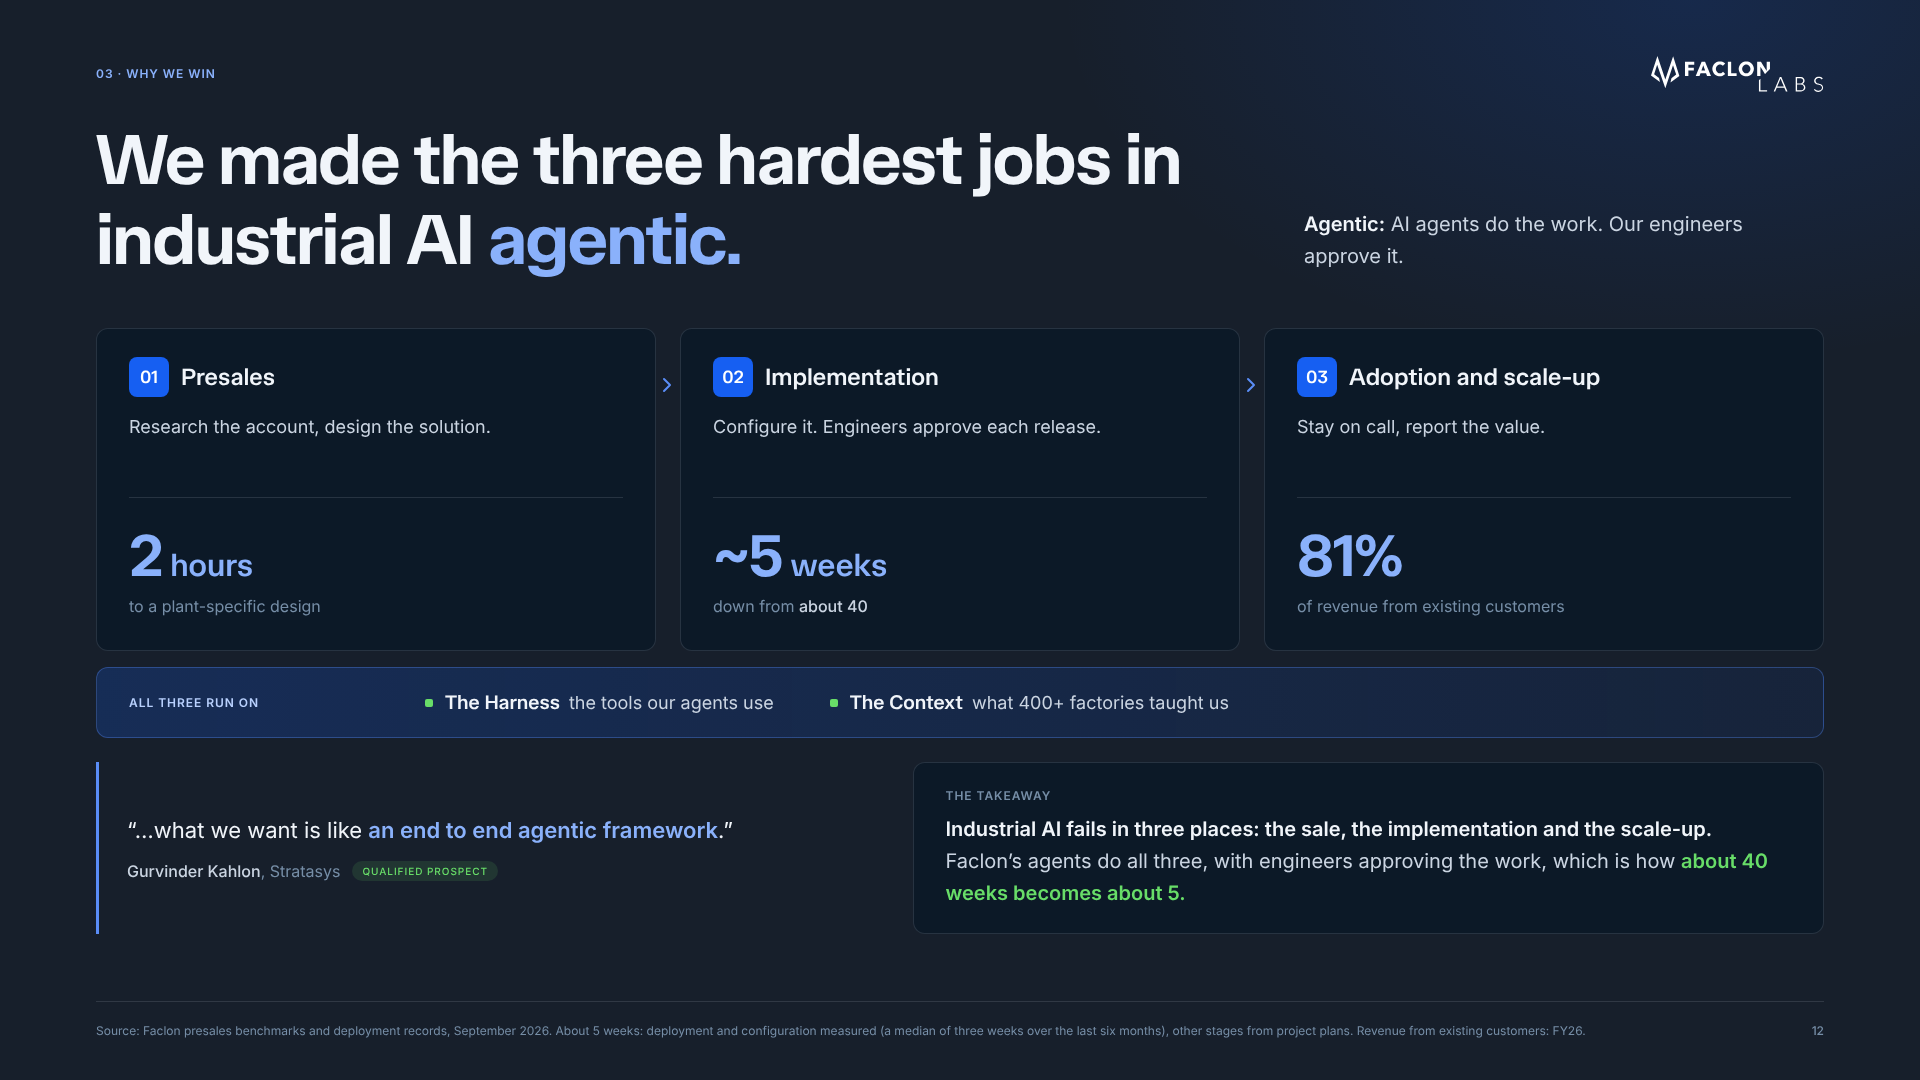
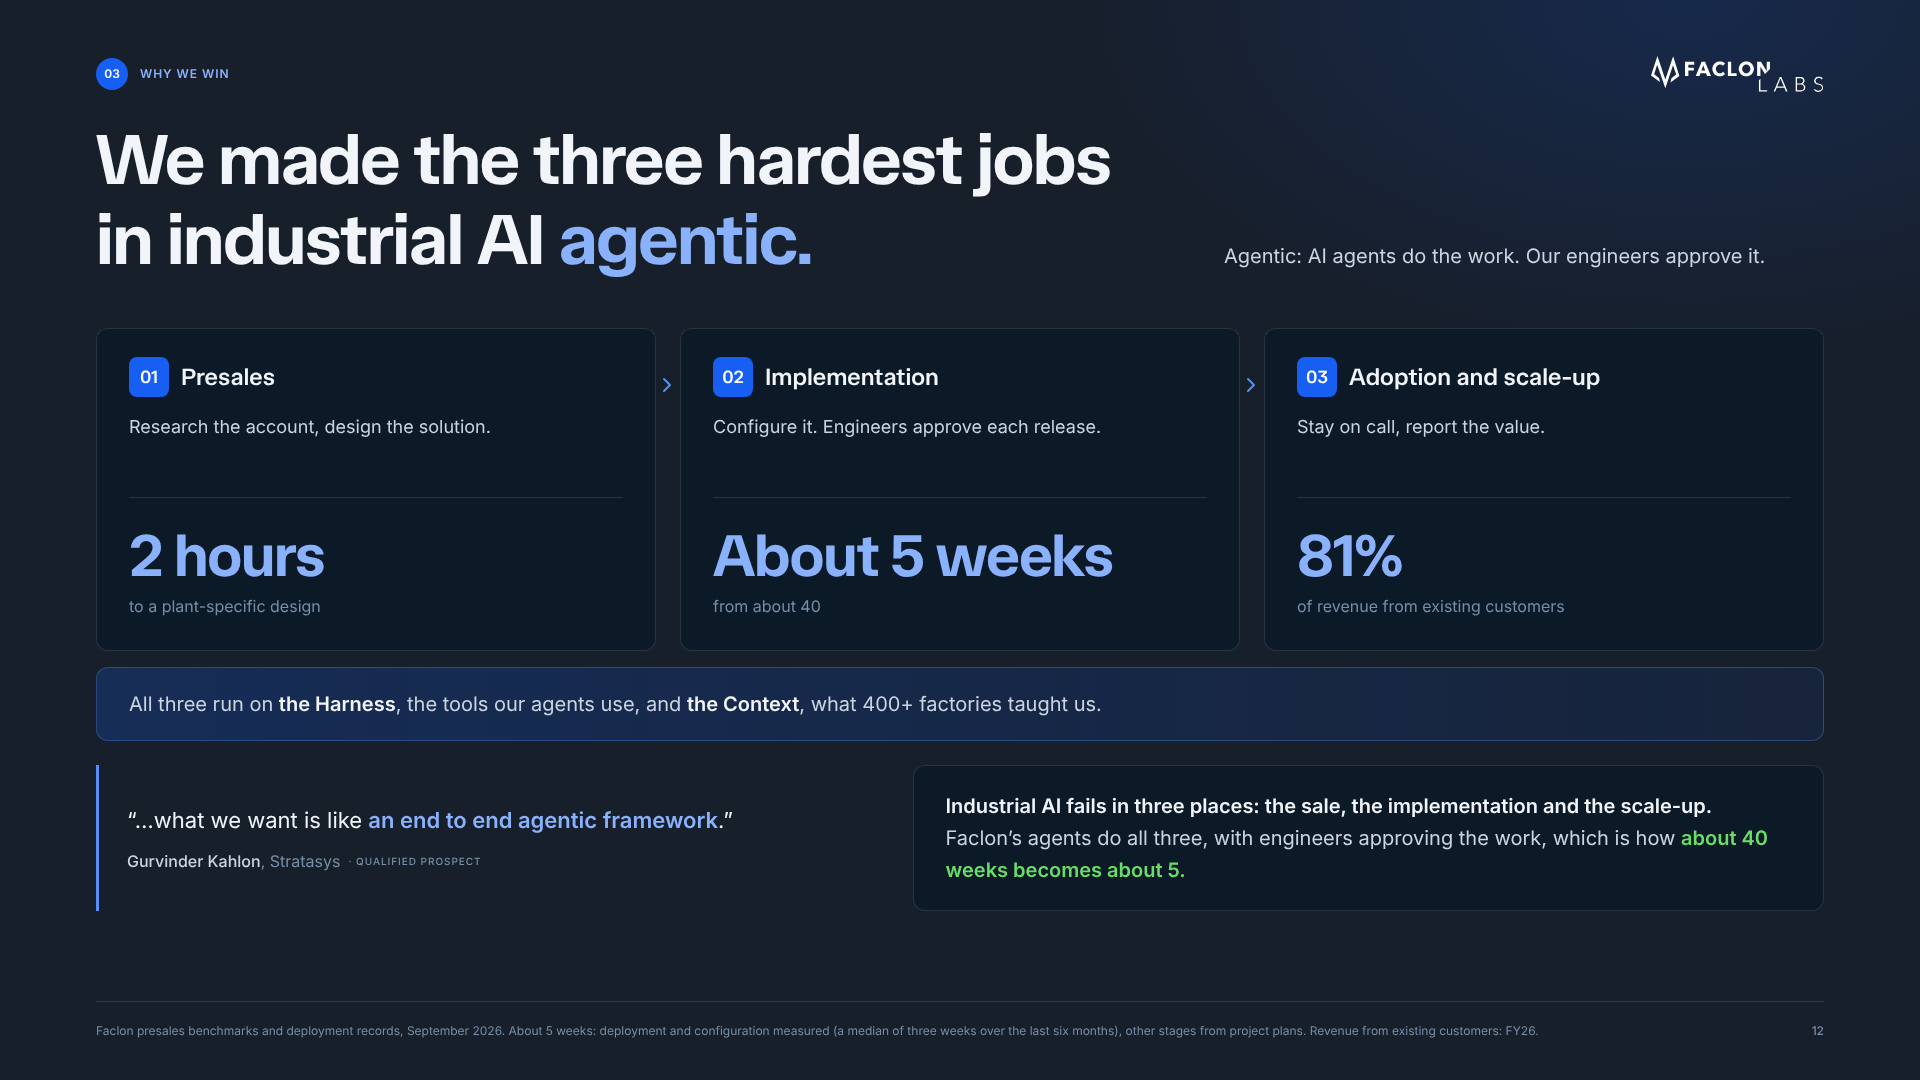
Restore original slide copy word for word in Why We Win redesign
Claude-Session: https://claude.ai/code/session_014BZibz62qyEHTMqVoptstq

diff --git a/faclon-why-we-win/why-we-win-slide.html b/faclon-why-we-win/why-we-win-slide.html
@@ -44,10 +44,12 @@
     font-size:12px;line-height:18px;font-weight:600;letter-spacing:.96px;
     text-transform:uppercase;color:var(--brand-300);
   }
+.eyebrow{display:flex;align-items:center;gap:12px;}
+  .eyebrow .sec{width:32px;height:32px;border-radius:999px;background:var(--brand-500);color:#fff;display:grid;place-items:center;letter-spacing:0;}
   .logo svg{height:36px;width:auto;display:block;}
 
   /* ---------- Headline ---------- */
-  .head{margin-top:28px;display:grid;grid-template-columns:1fr 520px;gap:48px;align-items:end;}
+  .head{margin-top:28px;display:grid;grid-template-columns:1fr 600px;gap:48px;align-items:end;}
   h1{
     font-family:var(--heading);font-weight:700;font-size:72px;line-height:80px;
     letter-spacing:-.02em;color:var(--text-heading-dark);margin:0;
@@ -82,10 +84,12 @@
 
   /* ---------- Foundation layer ---------- */
   .foundation{
-    margin-top:16px;display:grid;grid-template-columns:240px auto 1fr;gap:56px;align-items:center;
+    margin-top:16px;
     background:linear-gradient(90deg, rgba(22,95,242,.22), rgba(22,95,242,.08));
     border:1px solid rgba(90,141,247,.35);border-radius:var(--r-3xl);padding:20px 32px;
   }
+.foundation p{margin:0;font-size:20px;line-height:32px;color:var(--text-body-dark);}
+  .foundation p strong{color:var(--text-heading-dark);font-weight:600;}
   .foundation .label{display:flex;align-items:center;font-size:12px;line-height:18px;font-weight:600;letter-spacing:.96px;text-transform:uppercase;color:var(--brand-200);}
   .pillar{display:flex;align-items:baseline;gap:12px;font-size:18px;line-height:28px;color:var(--text-body-dark);}
   .pillar strong{font-family:var(--heading);font-weight:600;font-size:20px;color:var(--text-heading-dark);white-space:nowrap;}
@@ -98,11 +102,11 @@
   }
   .quote q{font-size:22px;line-height:34px;color:var(--text-heading-dark);quotes:"\201C" "\201D";}
   .quote q em{font-style:normal;color:var(--brand-300);font-weight:600;}
-  .attr{margin-top:12px;display:flex;align-items:center;gap:12px;font-size:16px;line-height:24px;color:var(--text-muted);}
+  .attr{margin-top:12px;display:flex;align-items:center;gap:8px;font-size:16px;line-height:24px;color:var(--text-muted);}
   .attr b{color:var(--text-body-dark);font-weight:500;}
   .chip{
     font-size:10px;line-height:16px;font-weight:500;letter-spacing:.96px;text-transform:uppercase;
-    padding:2px 10px;border-radius:999px;background:rgba(104,221,104,.12);color:var(--accent);
+    color:var(--text-muted);
   }
   .takeaway{
     background:var(--bg-secondary-dark);border:1px solid var(--line);border-radius:var(--r-3xl);
@@ -123,7 +127,7 @@
 <section class="slide">
 
   <div class="topbar">
-    <div class="eyebrow">03 · Why we win</div>
+    <div class="eyebrow"><span class="sec">03</span>Why we win</div>
     <div class="logo" aria-label="Faclon Labs">
       <svg width="254" height="53" viewBox="0 0 254 53" fill="none" xmlns="http://www.w3.org/2000/svg" role="img"><title>Faclon Labs</title>
 <path d="M21.0896 47.4814L9.07165 13.0136L4.61176 26.8799L11.8509 32.3868L13.1417 38.1526L0 28.5599L9.45639 0L21.0896 34.6505L32.5962 0.507551L41.7691 29.3415L28.6527 38.8631L30.0752 32.6457L37.051 27.3316L32.3988 13.5973L21.0896 47.4814Z" fill="white"/>
@@ -143,7 +147,7 @@
 
   <div class="head">
     <h1>We made the three hardest jobs in industrial AI <span class="hl">agentic.</span></h1>
-    <p class="lede"><strong>Agentic:</strong> AI agents do the work. Our engineers approve it.</p>
+    <p class="lede">Agentic: AI agents do the work. Our engineers approve it.</p>
   </div>
 
   <div class="stages">
@@ -151,7 +155,7 @@
       <div class="stage-top"><span class="num">01</span><h3>Presales</h3></div>
       <p>Research the account, design the solution.</p>
       <div class="metric">
-        <div class="metric-val">2<small>hours</small></div>
+        <div class="metric-val">2 hours</div>
         <div class="metric-cap">to a plant-specific design</div>
       </div>
       <span class="arrow" aria-hidden="true"><svg viewBox="0 0 20 20" fill="none"><path d="M7 4l6 6-6 6" stroke="currentColor" stroke-width="2" stroke-linecap="round" stroke-linejoin="round"/></svg></span>
@@ -160,8 +164,8 @@
       <div class="stage-top"><span class="num">02</span><h3>Implementation</h3></div>
       <p>Configure it. Engineers approve each release.</p>
       <div class="metric">
-        <div class="metric-val">~5<small>weeks</small></div>
-        <div class="metric-cap">down from <b>about 40</b></div>
+        <div class="metric-val">About 5 weeks</div>
+        <div class="metric-cap">from about 40</div>
       </div>
       <span class="arrow" aria-hidden="true"><svg viewBox="0 0 20 20" fill="none"><path d="M7 4l6 6-6 6" stroke="currentColor" stroke-width="2" stroke-linecap="round" stroke-linejoin="round"/></svg></span>
     </article>
@@ -176,24 +180,21 @@
   </div>
 
   <div class="foundation">
-    <div class="label">All three run on</div>
-    <div class="pillar"><span class="dot"></span><span><strong>The Harness</strong>&ensp;the tools our agents use</span></div>
-    <div class="pillar"><span class="dot"></span><span><strong>The Context</strong>&ensp;what 400+ factories taught us</span></div>
+    <p>All three run on <strong>the Harness</strong>, the tools our agents use, and <strong>the Context</strong>, what 400+ factories taught us.</p>
   </div>
 
   <div class="proof">
     <div class="quote">
       <q>…what we want is like <em>an end to end agentic framework</em>.</q>
-      <div class="attr"><span><b>Gurvinder Kahlon</b>, Stratasys</span><span class="chip">Qualified prospect</span></div>
+      <div class="attr"><span><b>Gurvinder Kahlon</b>, Stratasys</span><span class="chip">· Qualified prospect</span></div>
     </div>
     <div class="takeaway">
-      <div class="eyebrow">The takeaway</div>
       <p><strong>Industrial AI fails in three places: the sale, the implementation and the scale-up.</strong> Faclon’s agents do all three, with engineers approving the work, which is how <span class="big">about 40 weeks becomes about 5.</span></p>
     </div>
   </div>
 
   <div class="footer">
-    <div class="source">Source: Faclon presales benchmarks and deployment records, September 2026. About 5 weeks: deployment and configuration measured (a median of three weeks over the last six months), other stages from project plans. Revenue from existing customers: FY26.</div>
+    <div class="source">Faclon presales benchmarks and deployment records, September 2026. About 5 weeks: deployment and configuration measured (a median of three weeks over the last six months), other stages from project plans. Revenue from existing customers: FY26.</div>
     <div class="page">12</div>
   </div>
 
